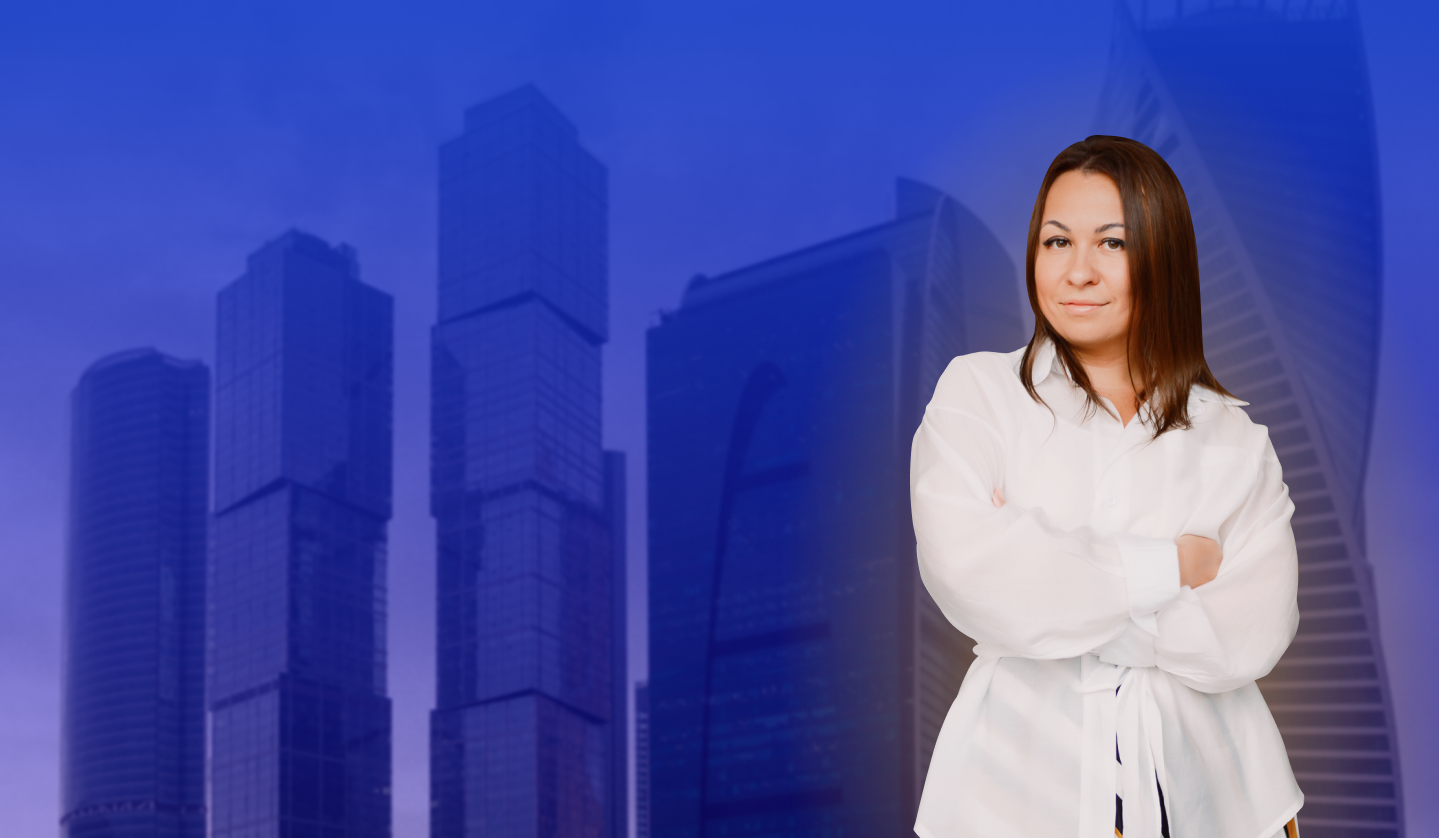
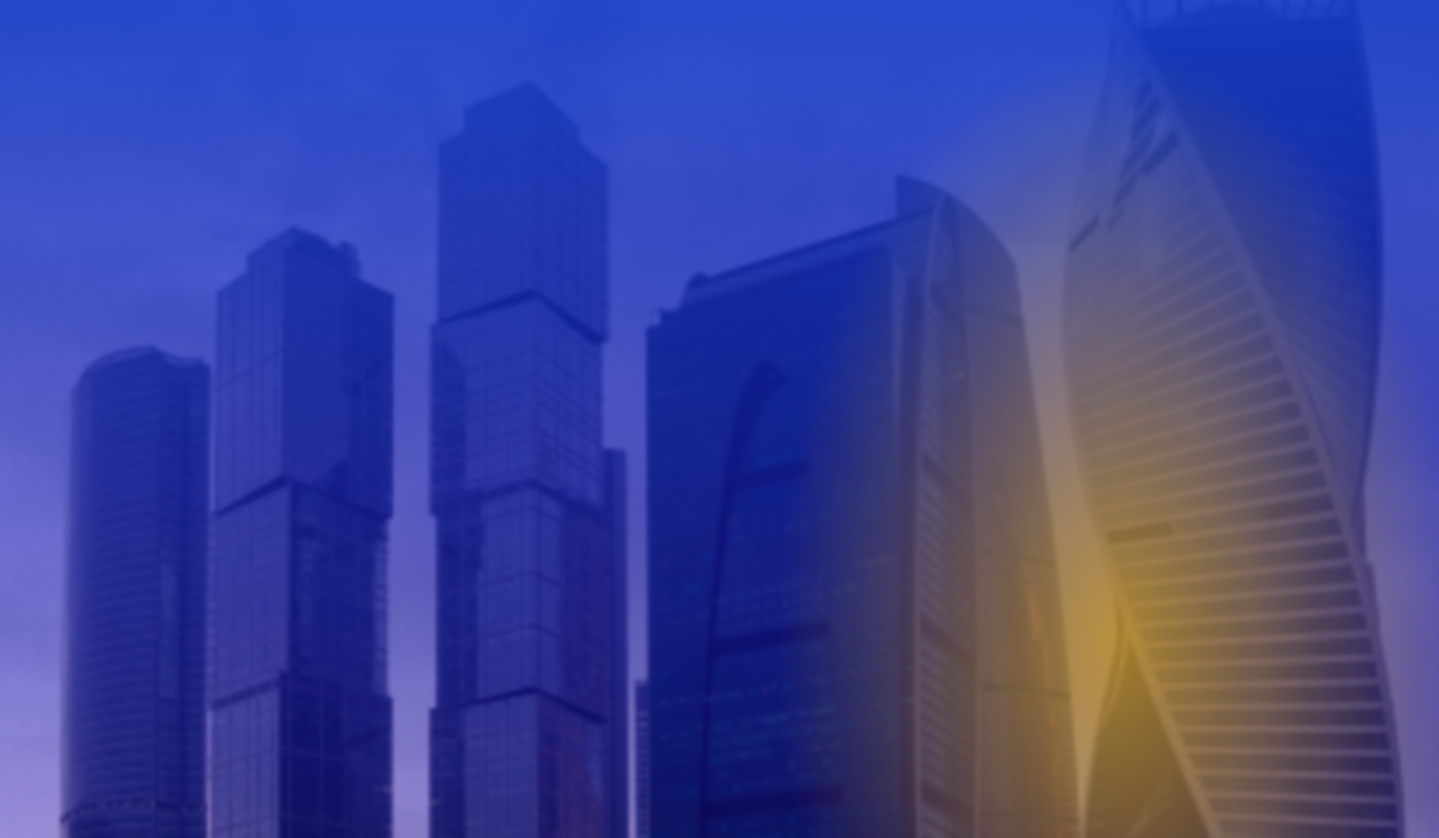
update

Changed region(s): [[0.6115, 0.1551, 0.9173, 1.0]]

diff --git a/style.css b/style.css
@@ -49,11 +49,15 @@ body{
 }
 .text{
   padding-left: 130px;
+  padding-top: 30px;
+  margin-right: 110px;
+  background: url("img/Photo-top.png") no-repeat;
+  background-size: 398px 702px;
+  background-position: bottom right;
 }
 .text__title{
   font:700 48px/51.31px Montserrat,arial helvetica serif;
   max-width: 796px;
-  margin-top: 50px;
   margin-bottom: 0;
 }
 .text__subtitle{
@@ -607,6 +611,11 @@ margin-left: 63px;
 }
 .popup__text a{
   color: skyblue;
+}
+@media (min-width:1700px){
+  .text{
+    margin-right: 235px;
+  }
 }
 @media (min-width:1500px){
   .advantages__text{
